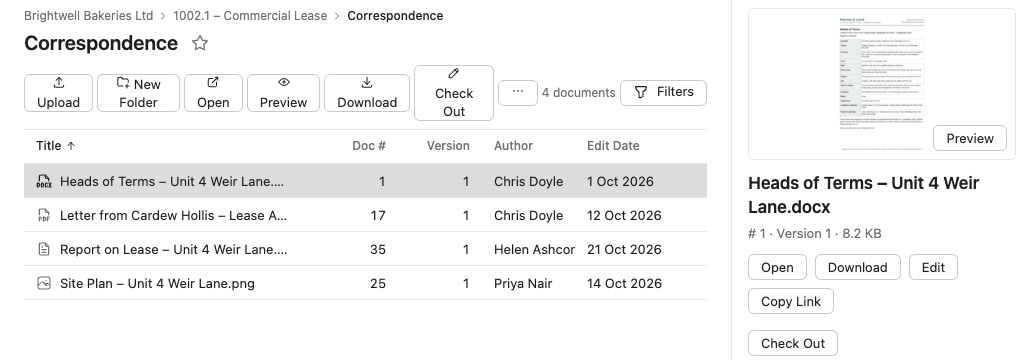
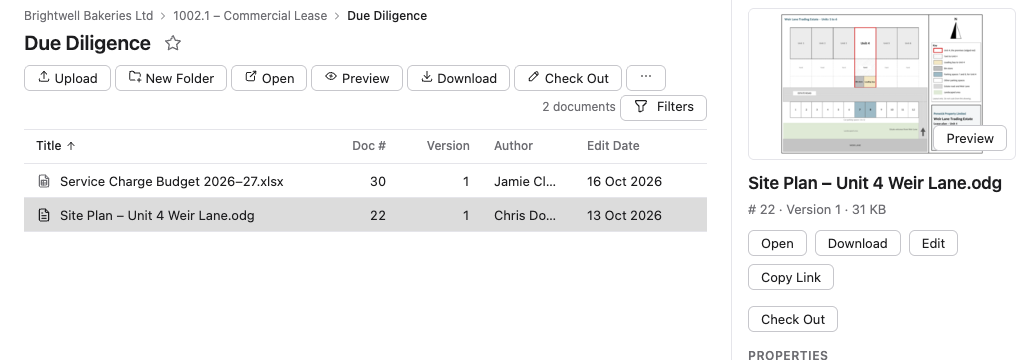
Make the User Guide's pictures and their words agree
The pictures spoiled by the app's faults are retaken from a fresh demo stack on the fixed app: the toolbar's buttons one
height (whole window, Download, More), cells ending in an ellipsis and the firm's own Edit Dates (search results,
document page, versions), the form's client and matter and no Message-ID (filing form, properties), Move To's client in
paler small type, the narrow window, and the check-outs and tray with the times and names that show. Versions comes from a
folder selection, as the page says. Alt texts say only what can be read.

Text: Getting Around says Edit changes the properties you can, such as Class and Subclass, that Open downloads a kind the
helper doesn't open, that Location shows on a document's own page too, and names the icon-only buttons (?, the menu's
three dots, the Navigation and Details and Filters buttons) as My Matters does.

diff --git a/site/content/user/getting-started/getting-around/index.md b/site/content/user/getting-started/getting-around/index.md
@@ -6,14 +6,14 @@ weight: 2
 Healdan's web page has a top bar across the top, a left pane down the left side and the main area beside it. The
 colours follow your browser's light or dark setting.
 
-![Healdan's web page in the matter 1002.1 – Commercial Lease's Correspondence folder: the top bar with the Healdan name, the Documents search box and the PN menu; the left pane with Recent, Recent Matters, My Matters opened to the matter's folders, and My Favorites; the folder's four documents with Heads of Terms – Unit 4 Weir Lane.docx selected; and its details at the right, with the thumbnail, Open, Download, Edit, Copy Link and Check Out, the properties and the versions](whole-window.png)
+![Healdan's web page in the Due Diligence folder of matter 1002.1 – Commercial Lease: the top bar with the Healdan name, the Documents search box, the ? button and the PN menu; the left pane with Recent, Recent Matters, My Matters opened to the matter's folders, and My Favorites; the folder's two documents, Service Charge Budget 2026–27.xlsx and Site Plan – Unit 4 Weir Lane.odg, with the second selected; and its details at the right, with the thumbnail of the plan, Open, Download, Edit, Copy Link and Check Out, its properties and its version](whole-window.png)
 
 ## The Top Bar
 
 - **Healdan's mark and name** on the left take you back to the start page.
 - **The search box,** with the scope picker joined to its left. Press `/` to jump to it. It suggests matters and
   documents as you type, and `#` and a doc # goes straight to that document. See [Searching](../../finding-documents/searching/).
-- **Help** opens the User Guide, and the notices for the open-source software Healdan uses, each in a new window.
+- **The ? (Help) button** opens the User Guide, and the notices for the open-source software Healdan uses, each in a new window.
 - **Your menu**, under your initials, shows your name and has Signed-in Devices, Classic Interface and Sign Out.
   Signed-in Devices lists where your account is signed in besides this page, and ends any of them: see
   [Signed-in Devices](../signed-in-devices/). Classic Interface opens the older web page, on the same sign-in. Sign Out
@@ -55,16 +55,17 @@ Select a document in a folder's list, in search results or in a Recent list, and
 - **A thumbnail** of the first page, when the document has one. Without one, a plain icon for the kind of file shows
   instead.
 - **The name,** and under it the doc #, the version and the size: `# 10388 · Version 2 · 209 KB`.
-- **Open** opens the document in its app through the Healdan Helper: see [Opening
-  Documents](../../office/opening-documents/#from-the-app-open). **Download** saves a copy of its file: see
+- **Open** opens the document in its app through the Healdan Helper, or downloads it when the helper doesn't open that kind
+  of file: see [Opening Documents](../../office/opening-documents/#from-the-app-open). **Download** saves a copy of its file: see
   [Downloading Documents](../../documents/downloading-documents/#one-document-in-the-app). **Edit** turns the
   properties into a form: see [Properties](../../working-with-matters/properties/#editing-in-the-app). **Copy Link**
   puts the document's address on your clipboard: see [Copying a Link](../../finding-documents/finding-by-doc-number/#copying-a-link).
 - **Check Out** and, once it's checked out to you, **Check In** and **Release**, with who has the document: see
   [Checking Out and Checking In](../../documents/checking-out-and-checking-in/#in-the-app).
 - **Properties:** Client, Matter, Class, Subclass, Author, Typist and Date Filed, and, for an email, From, To, Sent
-  and Received. In search results and Recent lists there is also **Location**, the document's folder, which you can
-  click. Choose **Edit** to change them.
+  and Received. In search results, Recent lists and a document's own page (`/app/doc/` and its doc #) there is also
+  **Location**, the document's folder, which you can click. Choose **Edit** to change the ones you can, such as Class
+  and Subclass: see [Properties](../../working-with-matters/properties/#editing-in-the-app).
 - **Versions:** the document's timeline, newest first, with who saved each and when.
 
 Click another document to see its details instead, or select several and the details close.
@@ -90,11 +91,12 @@ once the list has the focus.
 
 ## A Narrower Window
 
-On a window narrower than 1,024 pixels, such as a tablet, the left pane and the details, Filters or preview fold
-away so the list has the room. Two buttons in the top bar, **Navigation** and **Details and Filters**, open them over
-the list, and Esc or choosing a link closes them again. A phone's screen is too small for the app.
+On a window narrower than 1,024 pixels, such as a tablet, the left pane and the details, Filters or preview fold away
+so the list has the room. Two buttons in the top bar, the **☰** (Navigation) button and the panel-icon (Details and
+Filters) button, open them over the list, and Esc or choosing a link closes them again. A phone's screen is too small
+for the app.
 
-![The web page in a window 768 pixels wide: the left pane open over the folder's list, with Recent, Recent Matters, My Matters opened to 1002.1 – Commercial Lease's folders, and My Favorites, below a top bar that has the Navigation and Details and Filters buttons](narrow-window.png)
+![The web page in a window 768 pixels wide: the left pane open over the folder's list, with Recent, Recent Matters, My Matters opened to 1002.1 – Commercial Lease's folders, and My Favorites, below a top bar that has the ☰ (Navigation) and panel-icon (Details and Filters) buttons](narrow-window.png)
 
 ## When Something Goes Wrong
 

diff --git a/site/content/user/working-with-matters/filing-a-document/index.md b/site/content/user/working-with-matters/filing-a-document/index.md
@@ -39,7 +39,7 @@ it takes its subject, and the form says so. If you drop again while a form is op
 closes. This is the same form as
 **Edit** in a document's details: see [Properties](../properties/).
 
-![The File Documents form for three files going into the Correspondence folder of matter 1002.1: a title field for each of Attendance Note – Call with Martin Hale.docx, Letter to Cardew Hollis – Rent Deposit.docx and Lease Plan Notes.txt, then Client 1002, Matter 1, Author and Typist Priya Nair, Class Correspondence, Subclass Letter, Comments, Legacy doc # and Message-ID, and the File 3 Items and Cancel buttons](filing-form.png)
+![The File Documents form for three files going into the Correspondence folder of matter 1002.1: a title field for each of Note of Call – Hale.docx, Letter to Cardew Hollis.docx and Lease Plan Notes.txt, then Client 1002 – Brightwell Bakeries Ltd, Matter 1002.1 – Commercial Lease, Author and Typist Priya Nair, Class Correspondence, Subclass Letter, Comments and Legacy doc #, and the File 3 Items and Cancel buttons](filing-form.png)
 
 ### The Tray
 
@@ -49,7 +49,7 @@ seen. Its heading counts them, such as "2 Filed, 1 Refused". **Collapse** folds 
 Finished** takes the filed and refused items off and keeps the running ones. At most three upload at a time, and they go on while you move about the app. If you try
 to leave the page while any are still uploading, the browser asks first.
 
-![The tray after the three files were filed, headed "3 Filed" with Clear Finished and Collapse: Attendance Note – Call with Martin Hale.docx filed as # 64, Letter to Cardew Hollis – Rent Deposit.docx as # 66 and Lease Plan Notes.txt as # 65, each in Correspondence, with Edit and Dismiss buttons](filing-tray.png)
+![The tray after the three files were filed, headed "3 Filed" with Clear Finished and Collapse: Note of Call – Hale.docx filed as # 66, Letter to Cardew Hollis.docx as # 65 and Lease Plan Notes.txt as # 64, each in Correspondence, with Edit and Dismiss buttons](filing-tray.png)
 
 - **Edit** on a filed file selects the document and opens its properties form in the details.
 - **Show** on an email that is already in the matter opens the copy. See [Emails](../emails/).

diff --git a/site/content/user/documents/copying-moving-and-deleting/index.md b/site/content/user/documents/copying-moving-and-deleting/index.md
@@ -9,10 +9,10 @@ its permissions or because it's locked or checked out, is refused with a message
 
 ## Renaming a Document in the App
 
-Select the document and press **F2**, or choose **More**, in the toolbar above the list, then **Rename**. The title in
+Select the document and press **F2**, or choose the **⋯** (More) button in the toolbar above the list, then **Rename**. The title in
 its row becomes a field with the name, not its extension, selected.
 
-![The toolbar above the Drafts folder's list in matter 1002.1 with Lease – Draft for Client.docx selected and the More menu open, offering Rename, Move To…, Delete and Copy Link](more-menu.png)
+![The toolbar above the Drafts folder's list in matter 1002.1 with Lease – Draft for Client.docx selected and the ⋯ (More) button's menu open, offering Rename, Move To…, Delete and Copy Link](more-menu.png)
 
 - **Enter saves the name,** and so does clicking away from the field after you've changed it. **Esc** leaves the name as
   it was.
@@ -28,7 +28,7 @@ The rename is in the document's [history](../document-history/) and makes its ne
 
 ## Moving Documents in the App
 
-Select the documents, then choose **More**, then **Move To…**. A window opens that lists your **Recent Matters**, then your
+Select the documents, then choose the **⋯** (More) button, then **Move To…**. A window opens that lists your **Recent Matters**, then your
 **My Matters** other than those, so a matter in both is listed once, under Recent. Type in **Find a Matter** to search for another by its number or name.
 
 1. Choose the matter. The window lists its folders.
@@ -60,7 +60,7 @@ nothing. See [Where Documents Can Go](#where-documents-can-go).
 
 ## Deleting Documents in the App
 
-Select them and press **Delete** (on a Mac, the delete key), or choose **More**, then **Delete**. Healdan asks "Move 2
+Select them and press **Delete** (on a Mac, the delete key), or choose the **⋯** (More) button, then **Delete**. Healdan asks "Move 2
 documents to the Trash?" and lists each one's name. Choose **Move to Trash**, or **Cancel**, or press **Esc**.
 
 - **The Trash is in the Classic Interface,** where you can restore what you deleted: "The Trash is in the Classic

diff --git a/site/content/user/documents/checking-out-and-checking-in/index.md b/site/content/user/documents/checking-out-and-checking-in/index.md
@@ -38,7 +38,7 @@ time. It doesn't download anything: to edit the file, use **Open** (see
 [Opening Documents](../../office/opening-documents/)), or **Download** it (see
 [Downloading Documents](../downloading-documents/)).
 
-![The details of Lease – Draft for Client.docx, # 4, after Check Out: "Checked out by you since 12 Nov 2026, 04:50." with Check In and Release buttons, under Open, Download, Edit and Copy Link](checked-out-by-you.png)
+![The details of Lease – Draft for Client.docx, # 4, after Check Out: "Checked out by you since 12 Nov 2026, 08:14." with Check In and Release buttons, under Open, Download, Edit and Copy Link](checked-out-by-you.png)
 
 You need permission to write the document. **Check Out** is greyed out while someone else has the document checked out
 or locked, and for a document you can't write.
@@ -64,7 +64,7 @@ That goes for your own check-out on a computer too. One you made by opening a do
 [Healdan Helper](../../office/) belongs to that computer, and the details say "Checked out by you on" its name. Release
 it there, or in the Classic Interface.
 
-![The details of Lease – Engrossment.docx, # 48, held on a computer: "Checked out by you on Healdan Helper on Office PC since 12 Nov 2026, 04:49. Release it on that computer, or in the Classic Interface (Unlock).", with Edit greyed out](checked-out-on-computer.png)
+![The details of Lease – Engrossment.docx, # 48, held on a computer: "Checked out by you on Healdan Helper on Office PC since 12 Nov 2026, 08:14. Release it on that computer, or in the Classic Interface (Unlock).", with Edit greyed out](checked-out-on-computer.png)
 
 A locked document says "Locked by" and who. A lock is taken off in the Classic Interface (see
 [Locking a Document](../locking-a-document/)).

diff --git a/site/content/user/documents/downloading-documents/index.md b/site/content/user/documents/downloading-documents/index.md
@@ -16,7 +16,7 @@ Select the document and choose **Download**, in the toolbar above the list or in
 Your browser saves the file under the document's name, as it does for any link to a file. Healdan doesn't open the
 file in the page or keep a copy of it there.
 
-![The web page in the Correspondence folder of matter 1002.1 – Commercial Lease with Heads of Terms – Unit 4 Weir Lane.docx selected: the toolbar above the list, with Upload, New Folder, Open, Preview, Download and Check Out, and the Download button in the document's details at the right](download-toolbar.png)
+![The web page in the Due Diligence folder of matter 1002.1 – Commercial Lease, with Site Plan – Unit 4 Weir Lane.odg selected: the toolbar above the list, with Upload, New Folder, Open, Preview, Download, Check Out and the ⋯ (More) button, the document count and Filters below it, and the Download button in the document's details at the right](download-toolbar.png)
 
 If the file can't be reached right now, because it's in cloud storage or on a share that's down, the download fails.
 Your browser shows that in its list of downloads, and some browsers save a small file saying why instead. The app

diff --git a/site/content/user/documents/versions/index.md b/site/content/user/documents/versions/index.md
@@ -37,7 +37,7 @@ take it: see [Filing a Document](../../working-with-matters/filing-a-document/#d
 - **To go back to an earlier snapshot,** promote it from the Versions tab in the Classic Interface. That saves it as
   the latest.
 
-![The details of Subscription Agreement – Draft.docx, # 31, with its properties and its versions, newest first: Version 2 by Helen Ashcombe on 29 Oct 2026 at 16:00, Version 1.1 by Priya Nair on 23 Oct 2026 at 15:30, and Version 1 by Chris Doyle on 16 Oct 2026 at 14:30, each with Preview and Download](versions.png)
+![The details of Subscription Agreement – Draft.docx, # 31, selected in a folder's list: Open, Download, Edit, Copy Link and Check Out, its properties (Client 1003 – Kestrel Software Ltd, Matter 1003.1 – Series A Investment, Class Agreements, Subclass Draft, Author Helen Ashcombe, Typist Chris Doyle, Date Filed 16 Oct 2026), and its versions, newest first: Version 2 by Helen Ashcombe on 29 Oct 2026 at 16:00, Version 1.1 by Priya Nair on 23 Oct 2026 at 15:30, and Version 1 by Chris Doyle on 16 Oct 2026 at 14:30, each with Preview and Download](versions.png)
 
 ## Finding a Version by Number
 

diff --git a/site/content/user/finding-documents/searching/index.md b/site/content/user/finding-documents/searching/index.md
@@ -139,4 +139,4 @@ Today and the date ranges follow the server's time zone.
   panel. The filters stay set, and the button brings the panel back.
 - **The filters are in the page's address,** so Back, bookmarks and a copied link keep them.
 
-![Search results for "lease" in Documents, by relevance, with Filters open at the right and the File Type filter set to Word and PDF: a chip "File Type: Word, PDF" above eight documents, among them Lease – Engrossment.docx, # 48, matter 1002.1 Brightwell Bakeries Ltd, and Subscription Agreement – Draft.docx, # 31, matter 1003.1 Kestrel Software Ltd, and the filters' counts beside Word 5 and PDF 3](results-filters.png)
+![Search results for "lease" in Documents, by relevance, with Filters open at the right and the File Type filter set to Word and PDF: the chip "File Type: Word, PDF" above eight documents with their doc #s, versions, matter numbers 1002.1 and 1003.1, authors and Edit Dates, such as # 48 on 30 Oct 2026 and # 62 on 10 Nov 2026, where long titles and names end in an ellipsis; and the filters' groups, with File Type counts of Word 5 and PDF 3, then Author and Class](results-filters.png)

diff --git a/site/content/user/working-with-matters/properties/index.md b/site/content/user/working-with-matters/properties/index.md
@@ -28,7 +28,7 @@ Your administrator can add more properties.
 Choose **Edit** in a document's details. The properties become a form, made from the profile, so your firm's own
 properties are in it.
 
-![The details of Report on Lease – Unit 4 Weir Lane.odt, # 35, with its properties as a form: Client and Matter, Author Helen Ashcombe and Typist Priya Nair as text, Class (required) Correspondence, Subclass Letter, Comments and Legacy doc # as fields, Message-ID None, and the Save and Cancel buttons](edit-properties.png)
+![The details of Service Charge Budget 2026–27.xlsx, # 30, with its properties as a form: Client and Matter, Author and Typist Jamie Clarke as text, Class (required) Finance, Subclass Statement, Comments and Legacy doc # as fields, and the Save and Cancel buttons](edit-properties.png)
 
 - **A required property has a \* after its name.** Class is required.
 - **A property picked from a list offers only its options.** A Subclass offers only the ones that belong to the Class

diff --git a/site/content/user/office/opening-documents/index.md b/site/content/user/office/opening-documents/index.md
@@ -23,7 +23,7 @@ on it. The document opens in the app you've chosen for its kind in the helper's 
   seconds, or until you dismiss it, and shows over Quick Look too.
 - **Use one address,** as below.
 
-![The notice at the bottom right of the web page after Open on Heads of Terms – Unit 4 Weir Lane.docx: "If nothing opened, install the Healdan Helper.", with a link to install it and a close button, over the end of the document's details](open-notice.png)
+![The notice at the bottom right of the web page after Open: "If nothing opened, install the Healdan Helper.", with a link to install it and a close button, over the end of a document's details](open-notice.png)
 
 Double-clicking and **Enter** work in every list of documents: a folder, search results, Recent Documents and the
 result of a `#` search.
